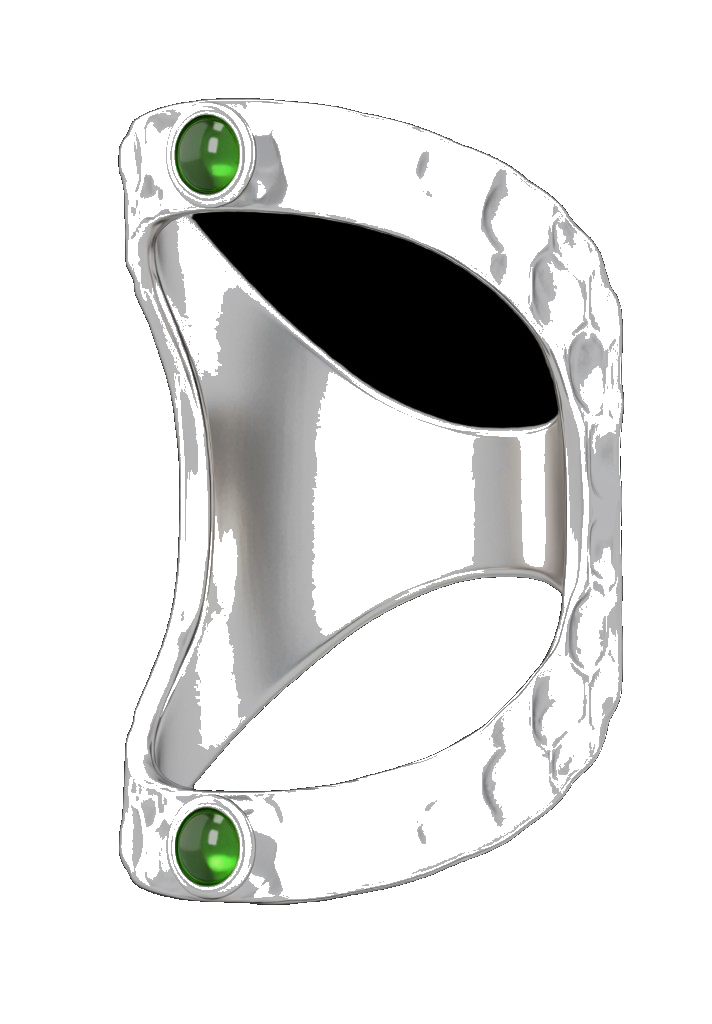
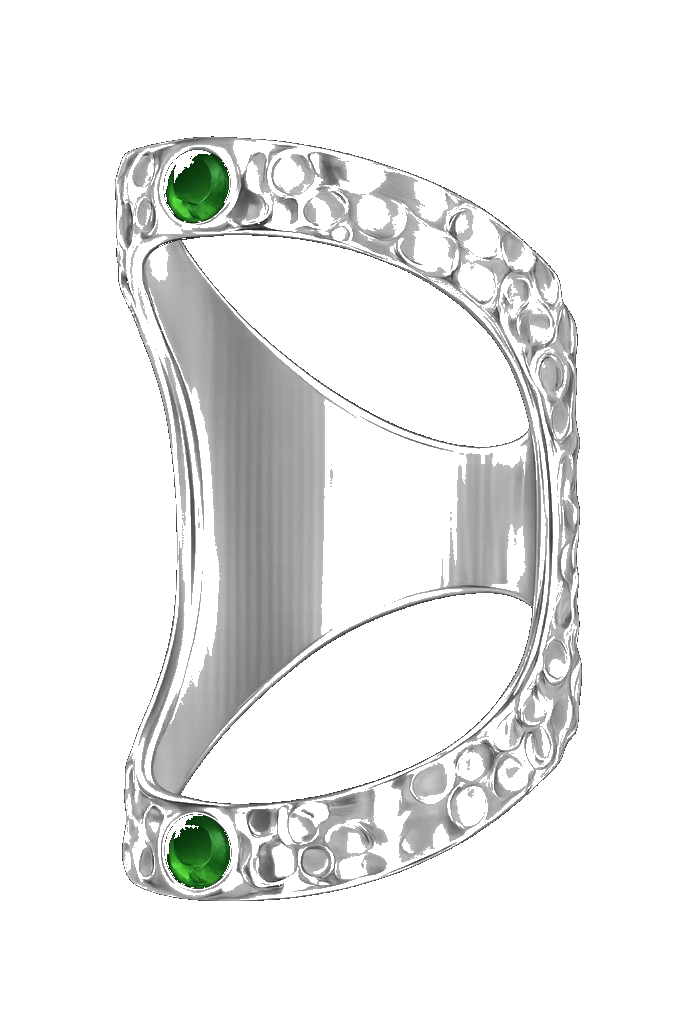
Old chrysolite: restore original render, revert aggressive photo processing.

Changed region(s): [[0.154, 0.0938, 0.893, 0.9062]]

diff --git a/scripts/fix-catalog-bg.js b/scripts/fix-catalog-bg.js
@@ -220,6 +220,18 @@ function floodReplaceBg(data, width, height) {
     tryPush(width - 1, y);
   }
 
+  if (luminance(cornerAvg) < 55) {
+    const seeds = [
+      [Math.floor(width * 0.5), Math.floor(height * 0.27)],
+      [Math.floor(width * 0.5), Math.floor(height * 0.73)],
+      [Math.floor(width * 0.42), Math.floor(height * 0.5)],
+      [Math.floor(width * 0.58), Math.floor(height * 0.5)],
+    ];
+    seeds.forEach(function (pt) {
+      tryPush(pt[0], pt[1]);
+    });
+  }
+
   for (let i = 0; i < width * height; i++) {
     if (visited[i]) continue;
     const p = i * BPP;
@@ -261,6 +273,19 @@ function isGreenStone(r, g, b) {
   return g > r + 20 && g > b + 12 && g > 90;
 }
 
+function removePureBlack(data) {
+  for (let i = 0; i < data.length; i += BPP) {
+    if (data[i + 3] < 10) continue;
+    const r = data[i];
+    const g = data[i + 1];
+    const b = data[i + 2];
+    if (isGreenStone(r, g, b)) continue;
+    if (Math.max(r, g, b) < 28) {
+      data[i + 3] = 0;
+    }
+  }
+}
+
 function removeGlares(data) {
   for (let i = 0; i < data.length; i += BPP) {
     if (data[i + 3] < 10) continue;
@@ -270,20 +295,12 @@ function removeGlares(data) {
     let b = data[i + 2];
     if (isGreenStone(r, g, b)) continue;
 
-    const max = Math.max(r, g, b);
     const lum = 0.299 * r + 0.587 * g + 0.114 * b;
-    if (max <= 168) continue;
-
-    const strength = Math.min(1, (max - 168) / 72);
-    const target = 168;
-    r = Math.round(r + (target - r) * strength * 0.92);
-    g = Math.round(g + (target - g) * strength * 0.92);
-    b = Math.round(b + (target - b) * strength * 0.92);
-
-    if (lum > 190) {
-      r = Math.min(r, 182);
-      g = Math.min(g, 182);
-      b = Math.min(b, 184);
+    if (lum > 198) {
+      const compress = 0.52;
+      r = Math.round(198 + (r - 198) * compress);
+      g = Math.round(198 + (g - 198) * compress);
+      b = Math.round(198 + (b - 198) * compress);
     }
 
     data[i] = r;
@@ -329,6 +346,7 @@ if (!file) {
 const buf = fs.readFileSync(file);
 const { width, height, data } = decodePng(buf);
 floodReplaceBg(data, width, height);
+removePureBlack(data);
 if (NO_GLARE) removeGlares(data);
 else if (SOFTEN_METAL) softenMetalHighlights(data);
 fs.writeFileSync(file, encodePng(width, height, data));

diff --git a/product/main.js b/product/main.js
@@ -1,4 +1,10 @@
 (function () {
+  var MEDIA_ASSET_VERSION = "10";
+
+  function mediaSrc(relativePath) {
+    return "../../" + relativePath + "?v=" + MEDIA_ASSET_VERSION;
+  }
+
   function getSlugFromPath() {
     var path = window.location.pathname.replace(/\/+$/, "");
     var parts = path.split("/").filter(Boolean);
@@ -82,7 +88,7 @@
     if (slides.length === 1 && slides[0].type === "image") {
       var loneImage = document.querySelector(".product-detail-image");
       if (loneImage) {
-        loneImage.src = "../../" + slides[0].src;
+        loneImage.src = mediaSrc(slides[0].src);
         loneImage.alt = slides[0].alt;
       }
       return;
@@ -139,7 +145,7 @@
       } else {
         var img = document.createElement("img");
         img.className = "product-detail-gallery__img";
-        img.src = "../../" + slide.src;
+        img.src = mediaSrc(slide.src);
         img.alt = slide.alt;
         img.loading = index === 0 ? "eager" : "lazy";
         img.decoding = "async";

diff --git a/main.js b/main.js
@@ -239,7 +239,7 @@
     initPackagingCarousel();
   }
 
-  var CATALOG_ASSET_VERSION = "5";
+  var CATALOG_ASSET_VERSION = "10";
 
   function productCategoryLabel(product) {
     if (product.category) return product.category;